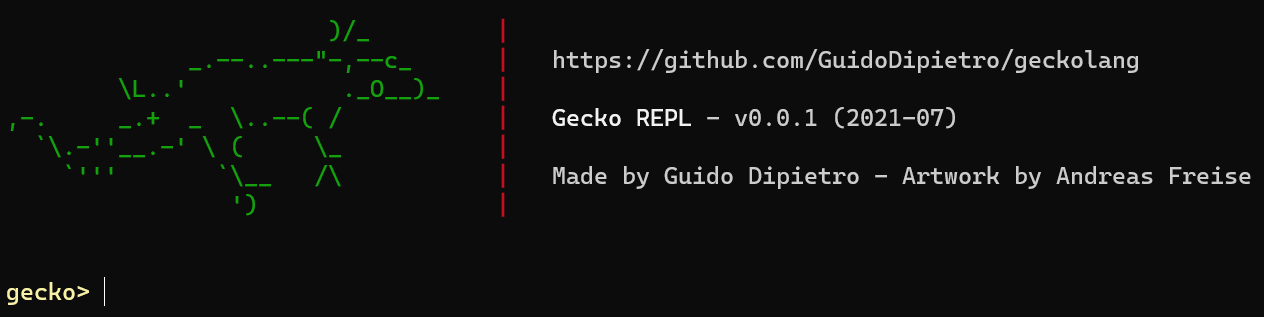
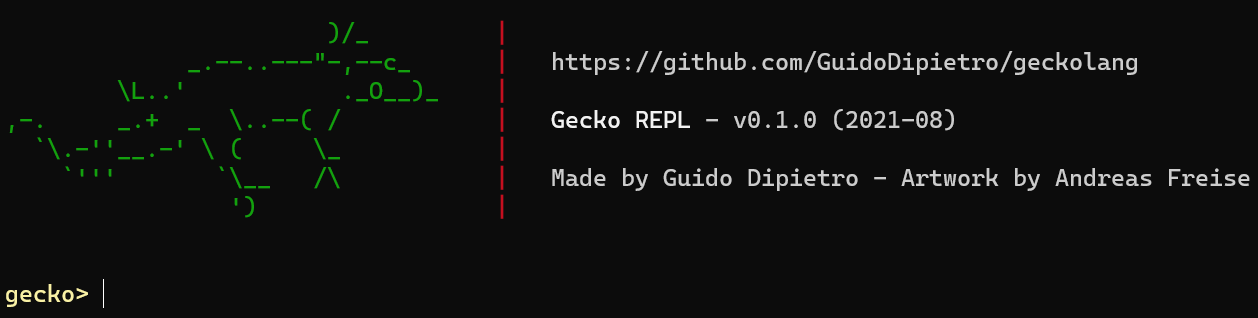
initial release version

diff --git a/gparser.py b/gparser.py
@@ -501,7 +501,7 @@ def REPL(lexer, parser):
 g(r"                       )/_         ")+pipe+"""\n"""+\
 g(r'             _.--..---"-,--c_      ')+pipe+"""   https://github.com/GuidoDipietro/geckolang\n"""+\
 g(r"        \L..'           ._O__)_    ")+pipe+"""\n"""+\
-g(r",-.     _.+  _  \..--( /           ")+pipe+"""   """+b('Gecko REPL')+""" - v0.0.1 (2021-07)\n"""+\
+g(r",-.     _.+  _  \..--( /           ")+pipe+"""   """+b('Gecko REPL')+""" - v0.1.0 (2021-08)\n"""+\
 g(r"  `\.-''__.-' \ (     \_           ")+pipe+"""\n"""+\
 g(r"    `'''       `\__   /\           ")+pipe+"""   Made by Guido Dipietro - Artwork by Andreas Freise\n"""+\
 g(r"                ')                 ")+pipe+"""\n"""
